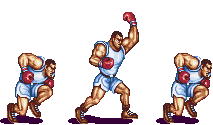
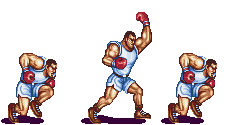
fix: sprites are normalized

Changed region(s): [[0.3099, 0.096, 1.0, 1.0], [0.0, 0.408, 0.2817, 1.0], [0.1127, 0.984, 0.1408, 1.0]]

diff --git a/include/init_fighters.h b/include/init_fighters.h
@@ -25,7 +25,7 @@ static const movement_init_t MOVES_INIT[] = {
         IDLE,
         "idle.png",
         200,
-        {0, 0, 52, 100},
+        {0, 0, 60, 100},
         3
     },
     {
@@ -46,56 +46,56 @@ static const movement_init_t MOVES_INIT[] = {
         CROUCH,
         "crouch.png",
         150,
-        {0, 0, 50, 100},
+        {0, 0, 55, 100},
         2
     },
     {
         JUMP,
         "jump.png",
         125,
-        {0, 0, 50, 100},
+        {0, 0, 70, 100},
         6
     },
     {
         ATTACK,
         "attack.png",
         100,
-        {0, 0, 75, 100},
+        {0, 0, 80, 100},
         3
     },
     {
         ATTACK_UP,
         "attack_up.png",
         150,
-        {0, 0, 70, 130},
+        {0, 0, 80, 130},
         3
     },
     {
         ATTACK_DOWN,
         "attack_down.png",
         100,
-        {0, 0, 67, 100},
+        {0, 0, 80, 100},
         3
     },
     {
         ATTACK_CROUCH,
         "attack_crouch.png",
         100,
-        {0, 0, 75, 110},
+        {0, 0, 80, 110},
         3
     },
     {
         ATTACK_JUMP,
         "attack_jump.png",
         100,
-        {0, 0, 75, 100},
+        {0, 0, 80, 100},
         3
     },
     {
         HIT,
         "hit.png",
         100,
-        {0, 0, 52, 112},
+        {0, 0, 55, 112},
         1
     },
     {
@@ -117,13 +117,13 @@ typedef struct fighter_init_s {
 
 static const fighter_init_t FIGHTER_INIT[] = {
     [PLAYER_FIGHTER] = {
-        "assets/fighters/player/",
+        "assets/fighters/black_guy/",
         PLAYER_IDLE_TEXT,
         PLAYER_TEXTURES_END,
         300
     },
     [NPC1] = {
-        "assets/fighters/npc1/",
+        "assets/fighters/black_guy/",
         NPC_IDLE_TEXT,
         NPC_TEXTURES_END,
         300,

diff --git a/src/fight/fight_unloading.c b/src/fight/fight_unloading.c
@@ -59,6 +59,7 @@ void destroy_fight(fight_t *fight)
     destroy_fighter_entity(fight->npc);
     sfView_destroy(fight->view);
     sfClock_destroy(fight->fps_clock);
+    sfClock_destroy(fight->stamina_clock);
     sfRectangleShape_destroy(fight->background);
     sfRectangleShape_destroy(fight->foreground);
     destroy_ui(fight);
